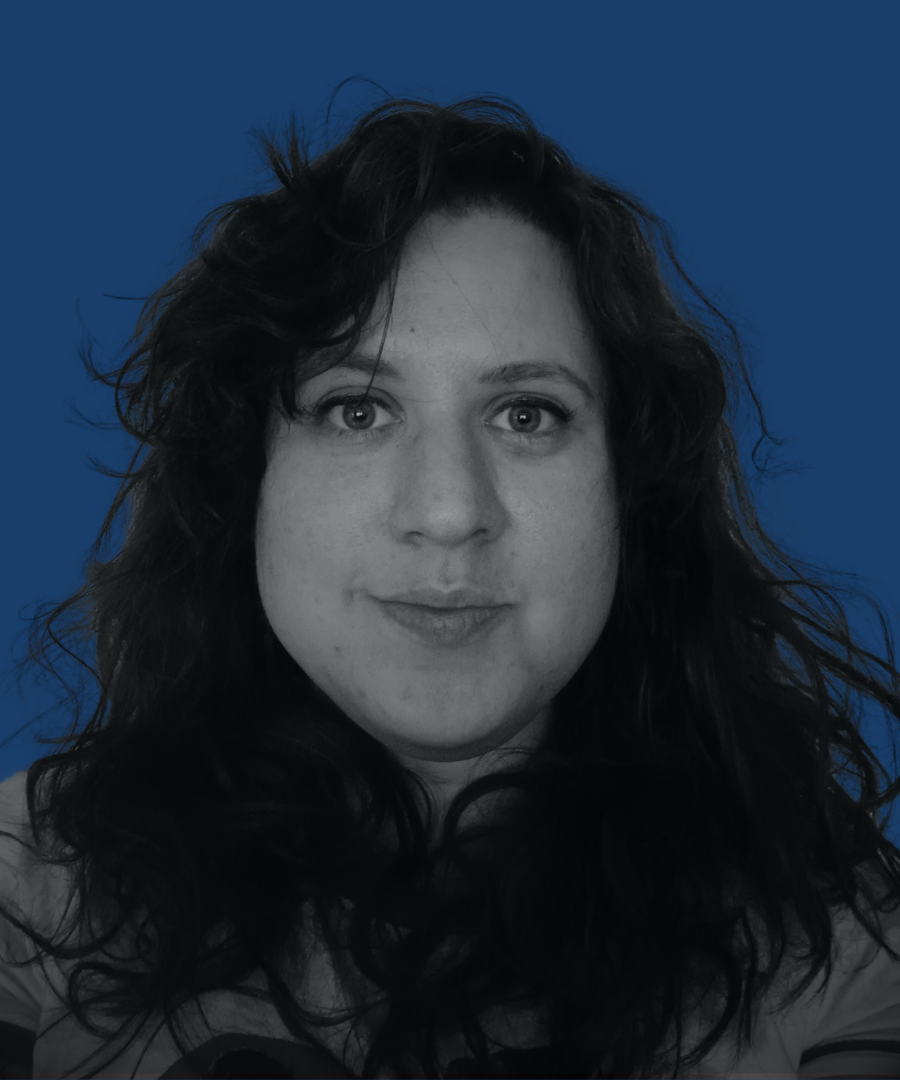
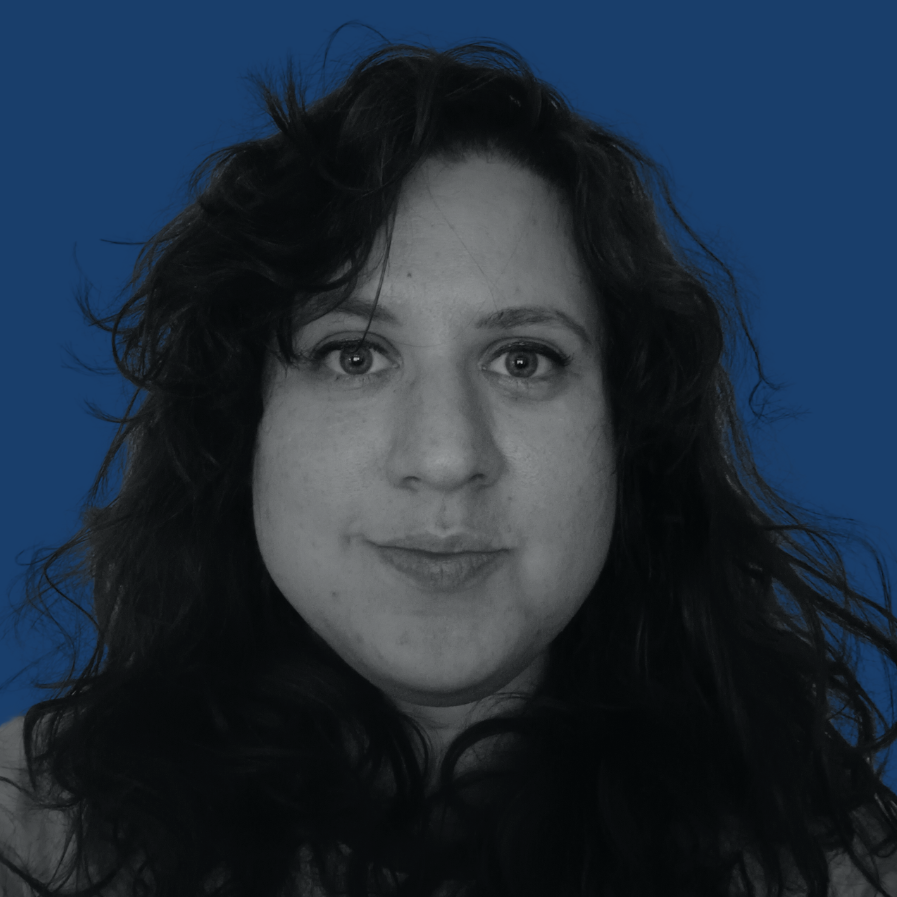
upravy1

diff --git a/index.html b/index.html
@@ -3,7 +3,7 @@
 <head>
     <meta charset="UTF-8">
     <meta name="viewport" content="width=, initial-scale=1.0">
-    <title>Kreativec sro</title>
+    <title>Kreativec s. r. o.</title>
     <link rel="preconnect" href="https://fonts.googleapis.com">
     <link rel="preconnect" href="https://fonts.gstatic.com" crossorigin>
     <link href="https://fonts.googleapis.com/css2?family=Maven+Pro:wght@400;700&display=swap" rel="stylesheet">
@@ -12,32 +12,34 @@
 
 
 </head>
+
 <body>
     
     <!-- hlavicka stranky -->
     <header class="hlavicka">
-        <h1> kreativec s.r.o. </h1>
-        <img src="pictures/sekce_uvod/uvodni_foto_kreativec.png" alt="tapeta">
+
+        <h1>kreativec s. r. o.</h1>
 
     </header>
     
     
     <!-- sekce grafik -->    
     <section class="grafik">
-        <h2> Grafik </h2>
-        <section class="pruh grafik">
-            <p>
 
-            </p>
-        </section>
+        <h2>Grafik</h2>
 
-            <p>
-                Sed ut perspiciatis unde omnis iste natus error sit voluptatem accusantium doloremque laudantium, totam rem aperiam eaque ipsa, quae ab illo inventore veritatis et quasi architecto beatae vitae dicta sunt, explicabo. Nemo enim ipsam voluptatem, quia voluptas sit, aspernatur aut odit aut fugit, sed quia consequuntur magni dolores eos, qui ratione voluptatem sequi nesciunt, neque porro quisquam est, qui dolorem ipsum, quia dolor sit, amet, consectetur, adipisci velit, sed quia non numquam eius modi tempora incidunt, ut labore et dolore magnam aliquam quaerat voluptatem. Ut enim ad minima veniam, quis nostrum exercitationem ullam corporis suscipit laboriosam, nisi ut aliquid ex ea commodi consequatur? 
-            </p>
+        <p>
+            Sed ut perspiciatis unde omnis iste natus error sit voluptatem accusantium doloremque laudantium, totam rem aperiam eaque ipsa, quae ab illo inventore veritatis et quasi architecto beatae vitae dicta sunt, explicabo. Nemo enim ipsam voluptatem, quia voluptas sit, aspernatur aut odit aut fugit, sed quia consequuntur magni dolores eos, qui ratione voluptatem sequi nesciunt, neque porro quisquam est, qui dolorem ipsum, quia dolor sit, amet, consectetur, adipisci velit, sed quia non numquam eius modi tempora incidunt, ut labore et dolore magnam aliquam quaerat voluptatem. Ut enim ad minima veniam, quis nostrum exercitationem ullam corporis suscipit laboriosam, nisi ut aliquid ex ea commodi consequatur? 
+        </p>
+
+        <img class="foto-grafik" src="pictures/sekce_grafika/grafika13.png" alt="webdesign3">
+
+        <h3>V čem pracuju</h3>
+
             <ul>
                 <li> InDesign </li>
                 <li> Photoshop </li>
-                <li> Canva </li>
+                 <li> Canva </li>
             </ul>
             
             <ul>
@@ -47,53 +49,99 @@
                 <li> Figma (v budoucnu) </li>
             </ul>
 
-            <!--dopnit fotky mych praci-->
-            <img src="pictures/sekce_grafika/grafika1.png" alt="popis obr">
-            <img src="pictures/sekce_grafika/grafika2.png" alt="popis obr">
-            <img src="pictures/sekce_grafika/grafika3.png" alt="popis obr">
-            <img src="pictures/sekce_grafika/grafika4.png" alt="popis obr">
-            <img src="pictures/sekce_grafika/grafika5.png" alt="popis obr">
-            <img src="pictures/sekce_grafika/grafika6.png" alt="popis obr">
-            <img src="pictures/sekce_grafika/grafika7.png" alt="popis obr">
-            <img src="pictures/sekce_grafika/grafika8.png" alt="popis obr">
-            <img src="pictures/sekce_grafika/grafika9.png" alt="popis obr">
-            <img src="pictures/sekce_grafika/grafika10.png" alt="popis obr">
+            <h3>Moje práce</h3>      
+
+                <img class="fotogalerie-grafik" src="pictures/sekce_grafika/grafika1.png" alt="grafika-desky1">
+                <img class="fotogalerie-grafik" src="pictures/sekce_grafika/grafika2.png" alt="grafika-desky2">
+                <img class="fotogalerie-grafik" src="pictures/sekce_grafika/grafika3.png" alt="grafika-plakat1">
+                <img class="fotogalerie-grafik" src="pictures/sekce_grafika/grafika4.png" alt="grafika-plakat2">
+                <img class="fotogalerie-grafik" src="pictures/sekce_grafika/grafika5.png" alt="grafika-plakat3">
+                <img class="fotogalerie-grafik" src="pictures/sekce_grafika/grafika6.png" alt="grafika-plakat4">
+                <img class="fotogalerie-grafik" src="pictures/sekce_grafika/grafika7.png" alt="grafika-DL1">
+                <img class="fotogalerie-grafik" src="pictures/sekce_grafika/grafika8.png" alt="grafika-DL2">
+                <img class="fotogalerie-grafik" src="pictures/sekce_grafika/grafika9.png" alt="grafika-letak">
+                <img class="fotogalerie-grafik" src="pictures/sekce_grafika/grafika10.png" alt="grafika-email1">
+                <img class="fotogalerie-grafik" src="pictures/sekce_grafika/grafika11.png" alt="grafika-email2">
+                <img class="fotogalerie-grafik" src="pictures/sekce_grafika/grafika12.png" alt="grafika-web1">
+
     </section>
 
     <!-- sekce kritik -->
     <section class="kritik">   
-        <h2> Kritik </h2>
 
-            <p>
-                Sed ut perspiciatis unde omnis iste natus error sit voluptatem accusantium doloremque laudantium, totam rem aperiam eaque ipsa, quae ab illo inventore veritatis et quasi architecto beatae vitae dicta sunt, explicabo. Nemo enim ipsam voluptatem, quia voluptas sit, aspernatur aut odit aut fugit, sed quia consequuntur magni dolores eos, qui ratione voluptatem sequi nesciunt, neque porro quisquam est, qui dolorem ipsum, quia dolor sit, amet, consectetur, adipisci velit, sed quia non numquam eius modi tempora incidunt, ut labore et dolore magnam aliquam quaerat voluptatem. Ut enim ad minima veniam, quis nostrum exercitationem ullam corporis suscipit laboriosam, nisi ut aliquid ex ea commodi consequatur? 
-            </p>
-    </section>
-
-    <!-- sekce DIY -->
-    <section class="DIYer">
-        <h2> DIYer </h2>
+        <h2>Kritik</h2>
 
         <p>
             Sed ut perspiciatis unde omnis iste natus error sit voluptatem accusantium doloremque laudantium, totam rem aperiam eaque ipsa, quae ab illo inventore veritatis et quasi architecto beatae vitae dicta sunt, explicabo. Nemo enim ipsam voluptatem, quia voluptas sit, aspernatur aut odit aut fugit, sed quia consequuntur magni dolores eos, qui ratione voluptatem sequi nesciunt, neque porro quisquam est, qui dolorem ipsum, quia dolor sit, amet, consectetur, adipisci velit, sed quia non numquam eius modi tempora incidunt, ut labore et dolore magnam aliquam quaerat voluptatem. Ut enim ad minima veniam, quis nostrum exercitationem ullam corporis suscipit laboriosam, nisi ut aliquid ex ea commodi consequatur? 
         </p>
+        <img class="foto-kritik" src="pictures/sekce_recenze/26.png"
+
+    
+            <h3>Moje práce</h3> 
+
+        <img class="fotogalerie-kritik" src="pictures/sekce_recenze/30.png" alt="recenze-flashart">
+        <img class="fotogalerie-kritik" src="pictures/sekce_recenze/29.png" alt="recenze-flashart!">
+        <img class="fotogalerie-kritik" src="pictures/sekce_recenze/28.png" alt="recenze-polityczna">
+               
+
+    </section>
+
+    <!-- sekce DIY -->
+    <section class="DIYer">
+
+        <h2>DIYer</h2>
+
+        <p>
+            Sed ut perspiciatis unde omnis iste natus error sit voluptatem accusantium doloremque laudantium, totam rem aperiam eaque ipsa, quae ab illo inventore veritatis et quasi architecto beatae vitae dicta sunt, explicabo. Nemo enim ipsam voluptatem, quia voluptas sit, aspernatur aut odit aut fugit, sed quia consequuntur magni dolores eos, qui ratione voluptatem sequi nesciunt, neque porro quisquam est, qui dolorem ipsum, quia dolor sit, amet, consectetur, adipisci velit, sed quia non numquam eius modi tempora incidunt, ut labore et dolore magnam aliquam quaerat voluptatem. Ut enim ad minima veniam, quis nostrum exercitationem ullam corporis suscipit laboriosam, nisi ut aliquid ex ea commodi consequatur? 
+        </p>
+
+        <img class="foto-DIYer" src="pictures/sekce_DIY/tapeta1.png">
+
+        <h3>Moje práce</h3>      
+
+            <img class="fotogalerie-DIYer" src="pictures/sekce_DIY/24.png" alt="projekt-DIY-fotokolaz">
+            <img class="fotogalerie-DIYer" src="pictures/sekce_DIY/31.png" alt="projekt-kreslo">     
+
     </section>
 
 
     <!-- sekce kontakt -->
     <section class="kontakt">
-        <h2> Napiš mi, udělá mi to radost! </h2>
+
+        <h2>Napiš mi, udělá mi to radost!</h2>
 
         <p>
-            <strong> E-mail: </strong> <a href="mailto:martinaraclavska@seznam.cz">martinaraclavska@seznam.cz</a>
-            <img src="pictures/icons_svg/insta.svg" alt="ikona instagram">
-            <img src="pictures/icons_svg/li.svg" alt="ikona linkedin">
+            Sed ut perspiciatis unde omnis iste natus error sit voluptatem accusantium doloremque laudantium, totam rem aperiam eaque ipsa, quae ab illo inventore veritatis et quasi architecto beatae vitae dicta sunt, explicabo. Nemo enim ipsam voluptatem, quia voluptas sit, aspernatur aut odit aut fugit, sed quia consequuntur magni dolores eos, qui ratione voluptatem sequi nesciunt.
         </p>
+
+        <img class="foto-kontakt" src="pictures/foto_M2.png" alt="foto Martina Raclavska">
+
     </section>
+
+    <div id="ikony">      
+
+        <a href="mailto:martinaraclavska@seznam.cz" target="_blank"> 
+            <img src="pictures/icons_svg/chat.svg" alt="ikona-mail">  
+            </a>
+
+        <a href="https://www.instagram.com/martinaraclavska/" target="_blank"> 
+        <img src="pictures/icons_svg/insta.svg" alt="ikona-instagram">  
+        </a> 
+
+        <a href="https://www.linkedin.com/in/martina-raclavska/" target="_blank"> 
+        <img src="pictures/icons_svg/li.svg" alt="ikona-linkedin">   
+        </a>
+
+    </div>
     
     <!--vlozit ikony socialnich siti-->
        <!-- paticka -->
     <footer class="paticka">
-        2023
+
+        <p>
+            Made 2023 - kurz Czechitas
+        </p>
+
     </footer>
 
 </body>

diff --git a/style.css b/style.css
@@ -1,6 +1,6 @@
 body {
     color: #282425;
-    background-color: #fff1e6;
+    background-color: #ffff;
     font-family: 'Maven Pro', sans-serif;
     font-size: 20px;
     line-height: 1.5;
@@ -8,10 +8,18 @@ body {
 }
 
 h1 {
-    font-size: 60px;
+    font-size: 90px;
+    color: white;
+    margin: 0;
+    padding-left: 60px;
+    text-shadow: 0 5px 14px #1d3b63;
 }
 
 h2 {
+    font-size: 70px;
+}
+
+h3 {
     font-size: 30px;
 }
 
@@ -19,4 +27,49 @@ h2 {
     background-color: #1d3b63;
     color: white;
     text-align: center;
+    padding: 20px;
+}
+
+.fotogalerie-grafik,
+.fotogalerie-kritik,
+.fotogalerie-DIYer {
+    width: 30%;
+}
+
+.foto-grafik {
+    width: 400px;
+}
+
+.foto-kritik,
+.foto-DIYer {
+    width: 400px;
+}
+
+.foto-kontakt {
+    width: 200px;
+    border-radius: 50%;
+    margin: 0 30px 30px 0;
+}
+
+ul {
+    list-style: none;
+}
+
+section {
+    padding: 80px;
+}
+
+.hlavicka {
+    background-image: url(pictures/sekce_uvod/2.png);
+    padding: 150px 30px;
+    background-repeat: no-repeat;
+    background-position: center;
+    background-size: 100%;
+}
+
+
+#ikony {
+    width: 100px;
+    display: flex;
+    margin: 20px;
 }
